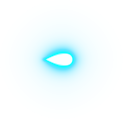
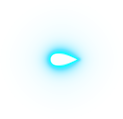
14 - Aclaraciones en el codigo, ajuste de dificultad y skin de los disparos

Changed region(s): [[0.3171, 0.4286, 0.6829, 0.5798]]

diff --git a/enemigo.js b/enemigo.js
@@ -1,5 +1,7 @@
 const randomInt = (min, max)  => Math.floor(Math.random() * (max - min) + min);
 
+//SUPER CLASE ENEMIGO
+
 class Enemigo {
     constructor(canvasW, y, w, h, img, ctx) {
         this.ctx = ctx;
@@ -30,6 +32,8 @@ class Enemigo {
         this.animateImg(sumarFrames)
     }
 
+    //ANIMACIÓN SPRITE ENEMIGO.
+
     animateImg(sumarFrames) {
         if(sumarFrames % 6 === 0)
             this.img.frameIndex++;
@@ -52,15 +56,17 @@ class Enemigo {
     }
 
     setDX(dx) {
-        this.dx = dx
+        this.dx = dx //Velocifad desplazamiento horizontal del enemigo.
     }
 
     explotar(arrEnemigos) {
         if(!this.derribado) {
             this.arrEnemigos = arrEnemigos;
             this.derribado = true;
-            this.img.frames = 11
+            this.img.frames = 11 //Frames animación explosión.
             this.img.frameIndex = 0
+            this.img.h = 20 //No me acepta este parametro como tamaño del sprite.
+            this.img.w = 20 //No me acepta este parametro como tamaño del sprite.
             
             this.img.src = `assets/img/explosion.png`
         }
@@ -69,7 +75,8 @@ class Enemigo {
     
 }
 
-// Enemigo > Nave
+// ENEMIGO > NAVE
+
 class Nave extends Enemigo {
     constructor(canvasW, canvasH, tipo, crop, ctx) {
         const w = 200;
@@ -89,17 +96,17 @@ class Nave extends Enemigo {
     }
 
     dispara (sumarFrame) {
-        if(sumarFrame % 100 === 0) {
-            console.log("NUEVA LASEr")
+        if(sumarFrame % 125 === 0) { //Cadencia de disparo enemigo.
+            console.log("LASER ENEMIGO")
             const bullet = new Laser(
-                this.x + 60,
+                this.x,
                 this.y + this.h / 2,
                 this.ctx,
-                randomInt(-50, -1),
-                "0" + randomInt(1, 9)
+                randomInt(-10, -1),
+                "1" + randomInt(1, 9) //Skin del disparo enemigo.
                 )
 
-            bullet.vel_x = -20;
+            bullet.vel_x = -10; //Velocidad del disparo enemigo.
             this.bullets.push(bullet)
         }
             
@@ -112,18 +119,20 @@ class Nave extends Enemigo {
     }
 }
 
-// Enemigo > Nave > NaveMetralla
+// ENEMIGO > NAVE > METRALLA
 class NaveMetralla extends Nave {
     constructor(canvasW, canvasH, ctx) {
         const tipo = 1;
         const crop = canvasH * .1;
+     
         
         super(canvasW, canvasH, tipo, crop, ctx)
         super.setDX(5)
+        
     }
 }
 
-// Enemigo > Nave > NaveSupersonica
+// ENEMIGO > NAVE > SUPERSONICA
 class NaveSupersonica extends Nave {
     constructor(canvasW, canvasH, ctx) {
         const tipo = 2;
@@ -135,7 +144,7 @@ class NaveSupersonica extends Nave {
     }
 }
 
-// Enemigo > Mina
+// ENEMIGO > MINA
 class Mina extends Enemigo {
     
 }

diff --git a/Galaxy.js b/Galaxy.js
@@ -1,17 +1,17 @@
 window.onload = function () {
 
 confirm("DISPARO = Ctrl \n MOVERSE = Flechas Arriba/Abajo")
-//     var miAudio = document.createElement('audio');
-//     var mensajeConfirm = "";
-//     miAudio.src = 'assets/snd/DUST.mp3';
-//     miAudio.addEventListener('ended', function(){
-//         confirm(mensajeConfirm);
-//     });
-//         function miConfirm(mensaje){
-//             miAudio.play();
-//             mensajeConfirm = mensaje;
-//         }
-//         miConfirm("DISPARO = Ctrl \n MOVERSE = Flechas Arriba/Abajo")
+    // var miAudio = document.createElement('audio');
+    // var mensajeConfirm = "";
+    // miAudio.src = 'assets/snd/DUST.mp3';
+    // miAudio.addEventListener('ended', function(){
+    //     confirm(mensajeConfirm);
+    // });
+    //     function miConfirm(mensaje){
+    //         miAudio.play();
+    //         mensajeConfirm = mensaje;
+    //     }
+    //     miConfirm("DISPARO = Ctrl \n MOVERSE = Flechas Arriba/Abajo")
 
     Game.init()
 }

diff --git a/disparo.js b/disparo.js
@@ -1,15 +1,15 @@
 class Laser {
-    constructor(x, y, ctx, v = 20, tipo = 24,){
+    constructor(x, y, ctx, v = 20, tipo = 64,){
         this.x = x;
         this.y = y;
-        this.laserW = 20;
-        this.laserH = this.laserW;
+        this.laserW = 60; //Ancho del disparo.
+        this.laserH = 20; //Alto del disparo.
         this.ctx = ctx;
 
         this.img = new Image();
         this.img.src = `assets/img/laser/${tipo}.png`;
 
-        this.vel_x = v; 
+        this.vel_x = 20; 
 
         
     }

diff --git a/objetoJuego.js b/objetoJuego.js
@@ -39,6 +39,7 @@ const Game = {
             if (this.esColision() || this.isDamage())
                 this.gameOver()
             this.esDiana() && console.log(++this.score)
+
         }, 1000 / this.fps)
     },
 
@@ -84,7 +85,7 @@ const Game = {
         clearInterval(this.loop)
     },
 
-//ENEMIGO 1
+//ENEMIGO
     
     generaEnemigo: function(tipo) {
             this.enemigos.push(
